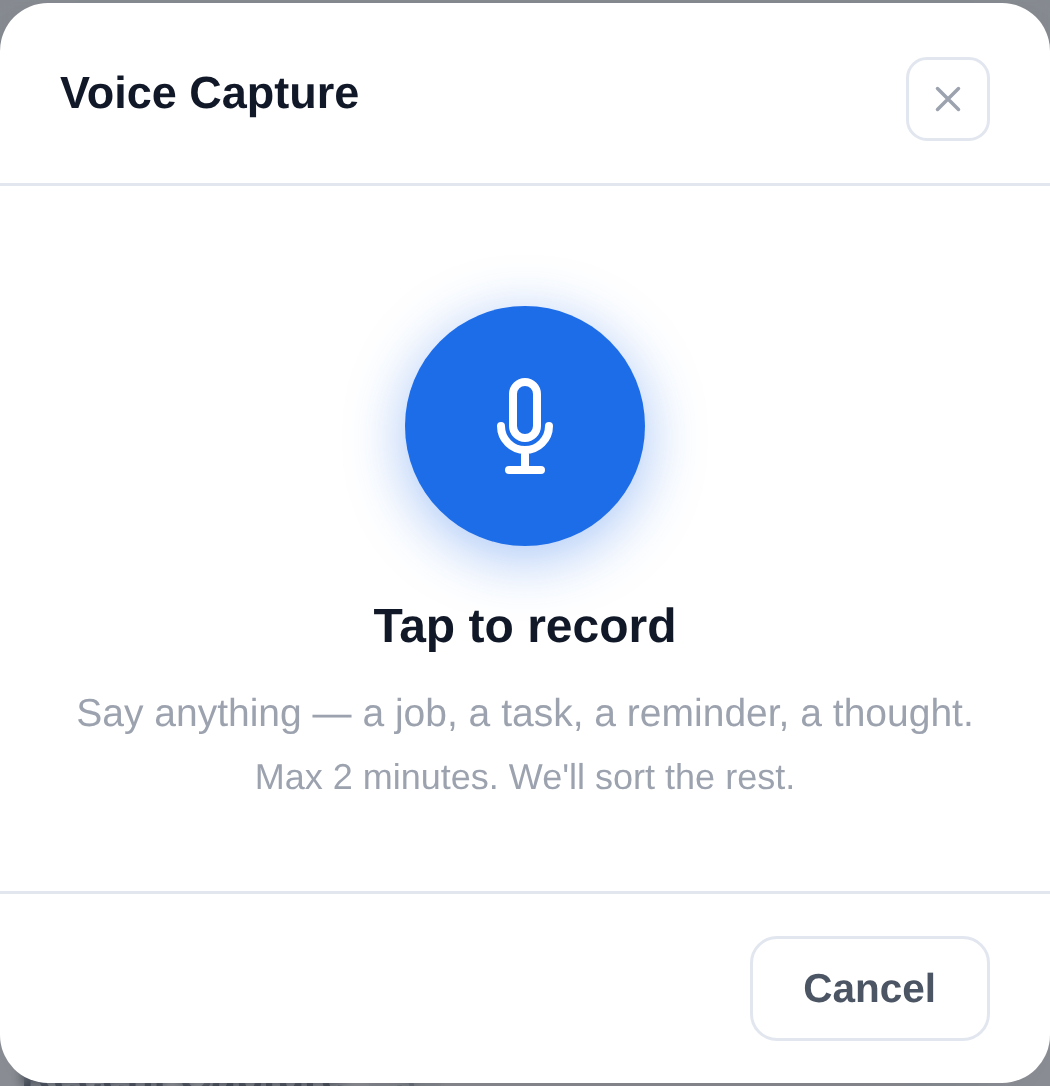
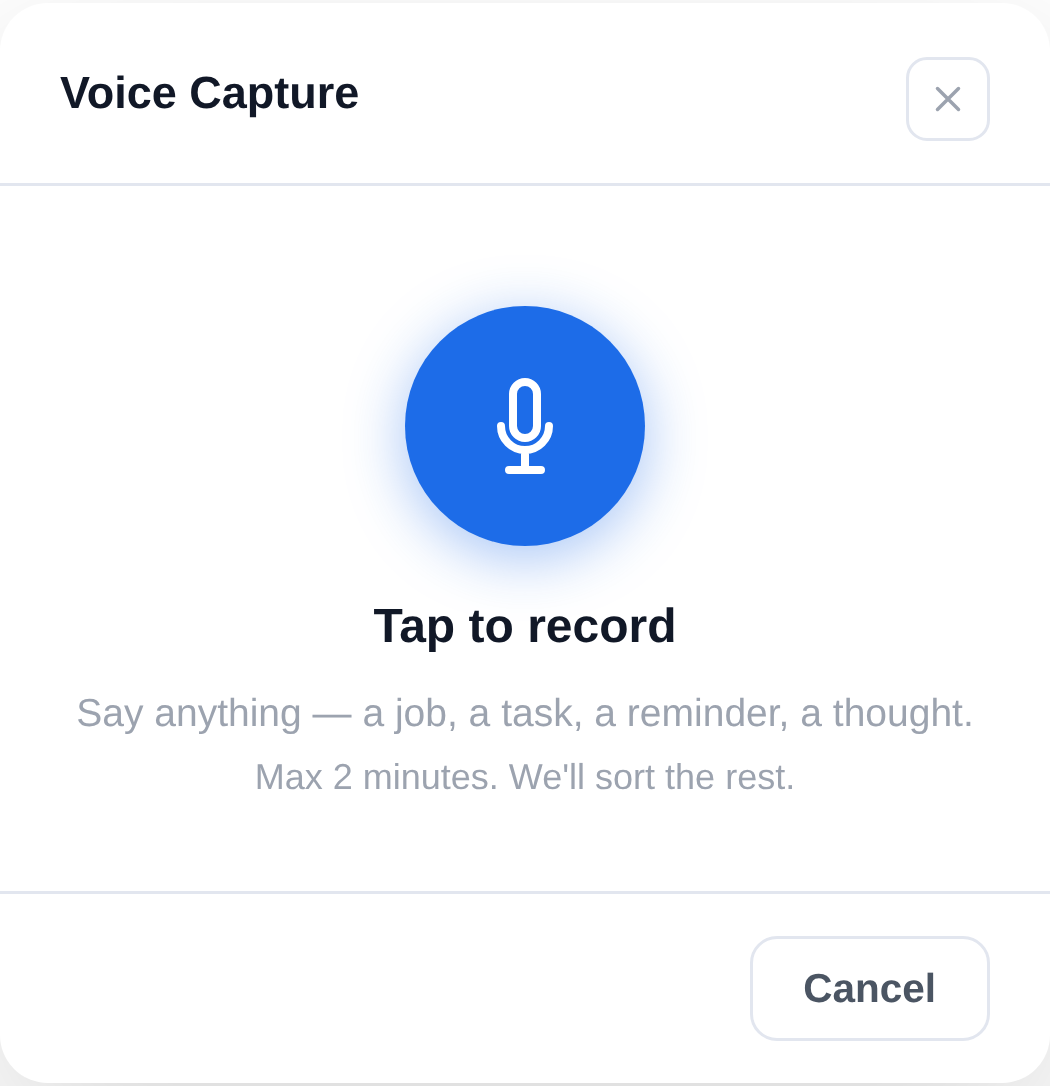
Capture components on a transparent ground; rebuild steps as a flow
Callan circled the step-1 visual: the blue Voice Capture tile was sitting
inside a white rectangle on the dark page. Cause: an element screenshot of
a rounded component bakes in whatever is behind its corners, and the app
page is white — so every "extracted component" shipped with a white box
around it. I verified the crops landed on the right content and never
looked at their edges.

Captures now set the page background transparent and use omitBackground,
so a rounded component's corners come out genuinely transparent (the tile
and capture window are now RGBA). They also hide everything but the target
element, because where a component's box extends past its painted rounded
edge, the content behind it was bleeding into the shot — visible as a strip
of the Home list under the Voice Capture window.

The section itself was three heavy boxes each holding a floating fragment,
which is not a design. Rebuilt as an actual left-to-right journey: no card
chrome, a dashed connector running between the numbered badges, components
sitting on the open ground with a drop-shadow that follows their real
edges. Copy blocks carry a min-height so all three visuals start on the
same line.

Claude-Session: https://claude.ai/code/session_01V8SbqkajD9CvdLT4uCpVmq

diff --git a/index.html b/index.html
@@ -295,21 +295,30 @@ header.site-nav{position:fixed;top:0;left:0;right:0;z-index:300;height:68px;disp
 .crop-card.duo .crop-win{height:106px}
 .crop-card.duo .crop-win img{margin-top:-11.5%}
 
-/* ── How it works — the numbered 3-step flow ── */
-/* align-items:start, not the grid default of stretch — step 2 holds a full
-   phone and steps 1/3 hold short crop cards, so stretching would pad the
-   short cards with a screen-height of dead navy to match the tall one. */
-.steps{display:grid;grid-template-columns:repeat(3,1fr);gap:28px;max-width:1160px;margin:0 auto;align-items:start}
-.step{background:var(--navy-card);border:1px solid var(--on-navy-line);border-radius:var(--r4);padding:28px 24px 32px;backdrop-filter:blur(6px)}
-.step-n{width:34px;height:34px;border-radius:50%;background:var(--white);color:var(--navy);font-family:var(--fh);font-size:16px;display:flex;align-items:center;justify-content:center;margin-bottom:18px}
+/* ── How it works — a left-to-right flow, not three boxes ──
+   The step is a column on the open ground with a dashed connector running
+   between them, so the section reads as one journey rather than three
+   unrelated cards. The visual in each column is a real component captured
+   with a transparent background (harness/shot-parts.js, omitBackground), so
+   a rounded control's corners are genuinely transparent instead of sitting
+   in a white rectangle on the dark ground. */
+.steps{display:grid;grid-template-columns:repeat(3,1fr);gap:16px;max-width:1080px;margin:0 auto;align-items:start}
+.step{position:relative;padding:0 14px;text-align:center}
+/* dashed connector between columns, desktop only */
+.step:not(:last-child)::after{content:'';position:absolute;top:19px;left:calc(50% + 30px);right:calc(-50% + 30px);border-top:2px dashed rgba(255,255,255,.18)}
+.step-n{width:38px;height:38px;border-radius:50%;background:var(--white);color:var(--navy);font-family:var(--fh);font-size:18px;display:flex;align-items:center;justify-content:center;margin:0 auto 18px;position:relative;z-index:1}
 .step:nth-child(2) .step-n{background:var(--teal);color:#fff}
 .step:nth-child(3) .step-n{background:var(--blue-lt);color:#fff}
-.step h3{font-family:var(--fb);font-weight:800;font-size:17px;color:var(--on-navy);margin-bottom:6px;letter-spacing:0}
-.step p{font-size:13.5px;color:var(--on-navy-soft);line-height:1.55;margin-bottom:22px;font-weight:500}
+.step h3{font-family:var(--fb);font-weight:800;font-size:18px;color:var(--on-navy);margin-bottom:8px;letter-spacing:0}
+.step p{font-size:13.5px;color:var(--on-navy-soft);line-height:1.6;margin:0 auto 26px;font-weight:500;max-width:290px;min-height:66px}
+.step-visual{min-height:230px;display:flex;align-items:center;justify-content:center}
 
 @media(max-width:900px){
   .sec{padding:64px 24px}
-  .steps{grid-template-columns:1fr;gap:20px;max-width:340px}
+  .steps{grid-template-columns:1fr;gap:34px;max-width:340px}
+  .step:not(:last-child)::after{display:none}
+  .step-visual{min-height:0}
+  .step p{min-height:0}
 }
 
 /* ═══ FEATURES — alternating copy/visual rows ═══
@@ -345,16 +354,14 @@ header.site-nav{position:fixed;top:0;left:0;right:0;z-index:300;height:68px;disp
 .anno-chip.a2::after{content:'';position:absolute;left:-34px;top:50%;width:34px;border-top:1.5px dashed var(--blue-lt)}
 
 /* ═══ EXTRACTED COMPONENT ═══
-   A single real component, screenshotted on its own from the running app at
-   3x (see harness/shot-parts.js) rather than cropped out of a screen capture.
-   Cropping was what produced containers cut through the middle of a tile —
-   an element screenshot has the component's own edges, so it can't. */
-/* A fixed box height with object-fit:contain evens up the three step cards —
-   one component is wide and short (the Voice Capture tile), the other two are
-   portrait, so left to their natural sizes the cards ended up wildly ragged.
-   drop-shadow rather than box-shadow: it follows the image's real edges
-   instead of drawing a rectangle around the letterboxed box. */
-.part{display:block;width:100%;height:210px;object-fit:contain;object-position:center;filter:drop-shadow(0 14px 28px rgba(0,0,0,.5))}
+   One real component, screenshotted on its own from the running app at 3x
+   with a transparent background, rather than cropped out of a screen shot.
+   Cropping cut through the middle of controls; capturing without
+   omitBackground baked the app's white page into the rounded corners. */
+.part{display:block;max-width:100%;max-height:230px;width:auto;filter:drop-shadow(0 16px 30px rgba(0,0,0,.55))}
+.part.w-tile{width:100%;max-width:300px}
+.part.w-card{max-width:212px}
+.part.card-bg{border-radius:14px}
 .sec.light .part{filter:drop-shadow(0 10px 22px rgba(17,24,39,.18))}
 
 /* ═══ WHILE YOU'RE STILL ON SITE ═══
@@ -491,19 +498,19 @@ document.querySelectorAll(".nav-mobile a").forEach(a=>a.addEventListener("click"
         <div class="step-n">1</div>
         <h3>Open Home</h3>
         <p>Tap Voice Capture to start recording — no menus to dig through first.</p>
-        <img class="part w-tile" src="/assets/screens/part-voice-tile.png" alt="SoleTasker's Voice Capture button" width="362" height="82" loading="lazy"/>
+        <div class="step-visual"><img class="part w-tile" src="/assets/screens/part-voice-tile.png" alt="SoleTasker's Voice Capture button" width="362" height="82" loading="lazy"/></div>
       </div>
       <div class="step">
         <div class="step-n">2</div>
         <h3>Speak it once</h3>
         <p>Tell it what you need — a job, a task, a reminder. Two minutes max, then it's transcribed and checked for priority, job and assignee.</p>
-        <img class="part w-card" src="/assets/screens/part-capture-modal.png" alt="SoleTasker's Voice Capture window, ready to record" width="350" height="362" loading="lazy"/>
+        <div class="step-visual"><img class="part w-card" src="/assets/screens/part-capture-modal.png" alt="SoleTasker's Voice Capture window, ready to record" width="350" height="362" loading="lazy"/></div>
       </div>
       <div class="step">
         <div class="step-n">3</div>
         <h3>Review &amp; save</h3>
         <p>It lands as the right task, with details and priority filled in — you just check it and save.</p>
-        <img class="part w-card" src="/assets/screens/part-task-modal.png" alt="A saved SoleTasker task with priority, assignee and the linked job filled in" width="350" height="246" loading="lazy"/>
+        <div class="step-visual"><img class="part w-card card-bg" src="/assets/screens/part-task-modal.png" alt="A saved SoleTasker task with priority, assignee and the linked job filled in" width="350" height="246" loading="lazy"/></div>
       </div>
     </div>
   </section>
